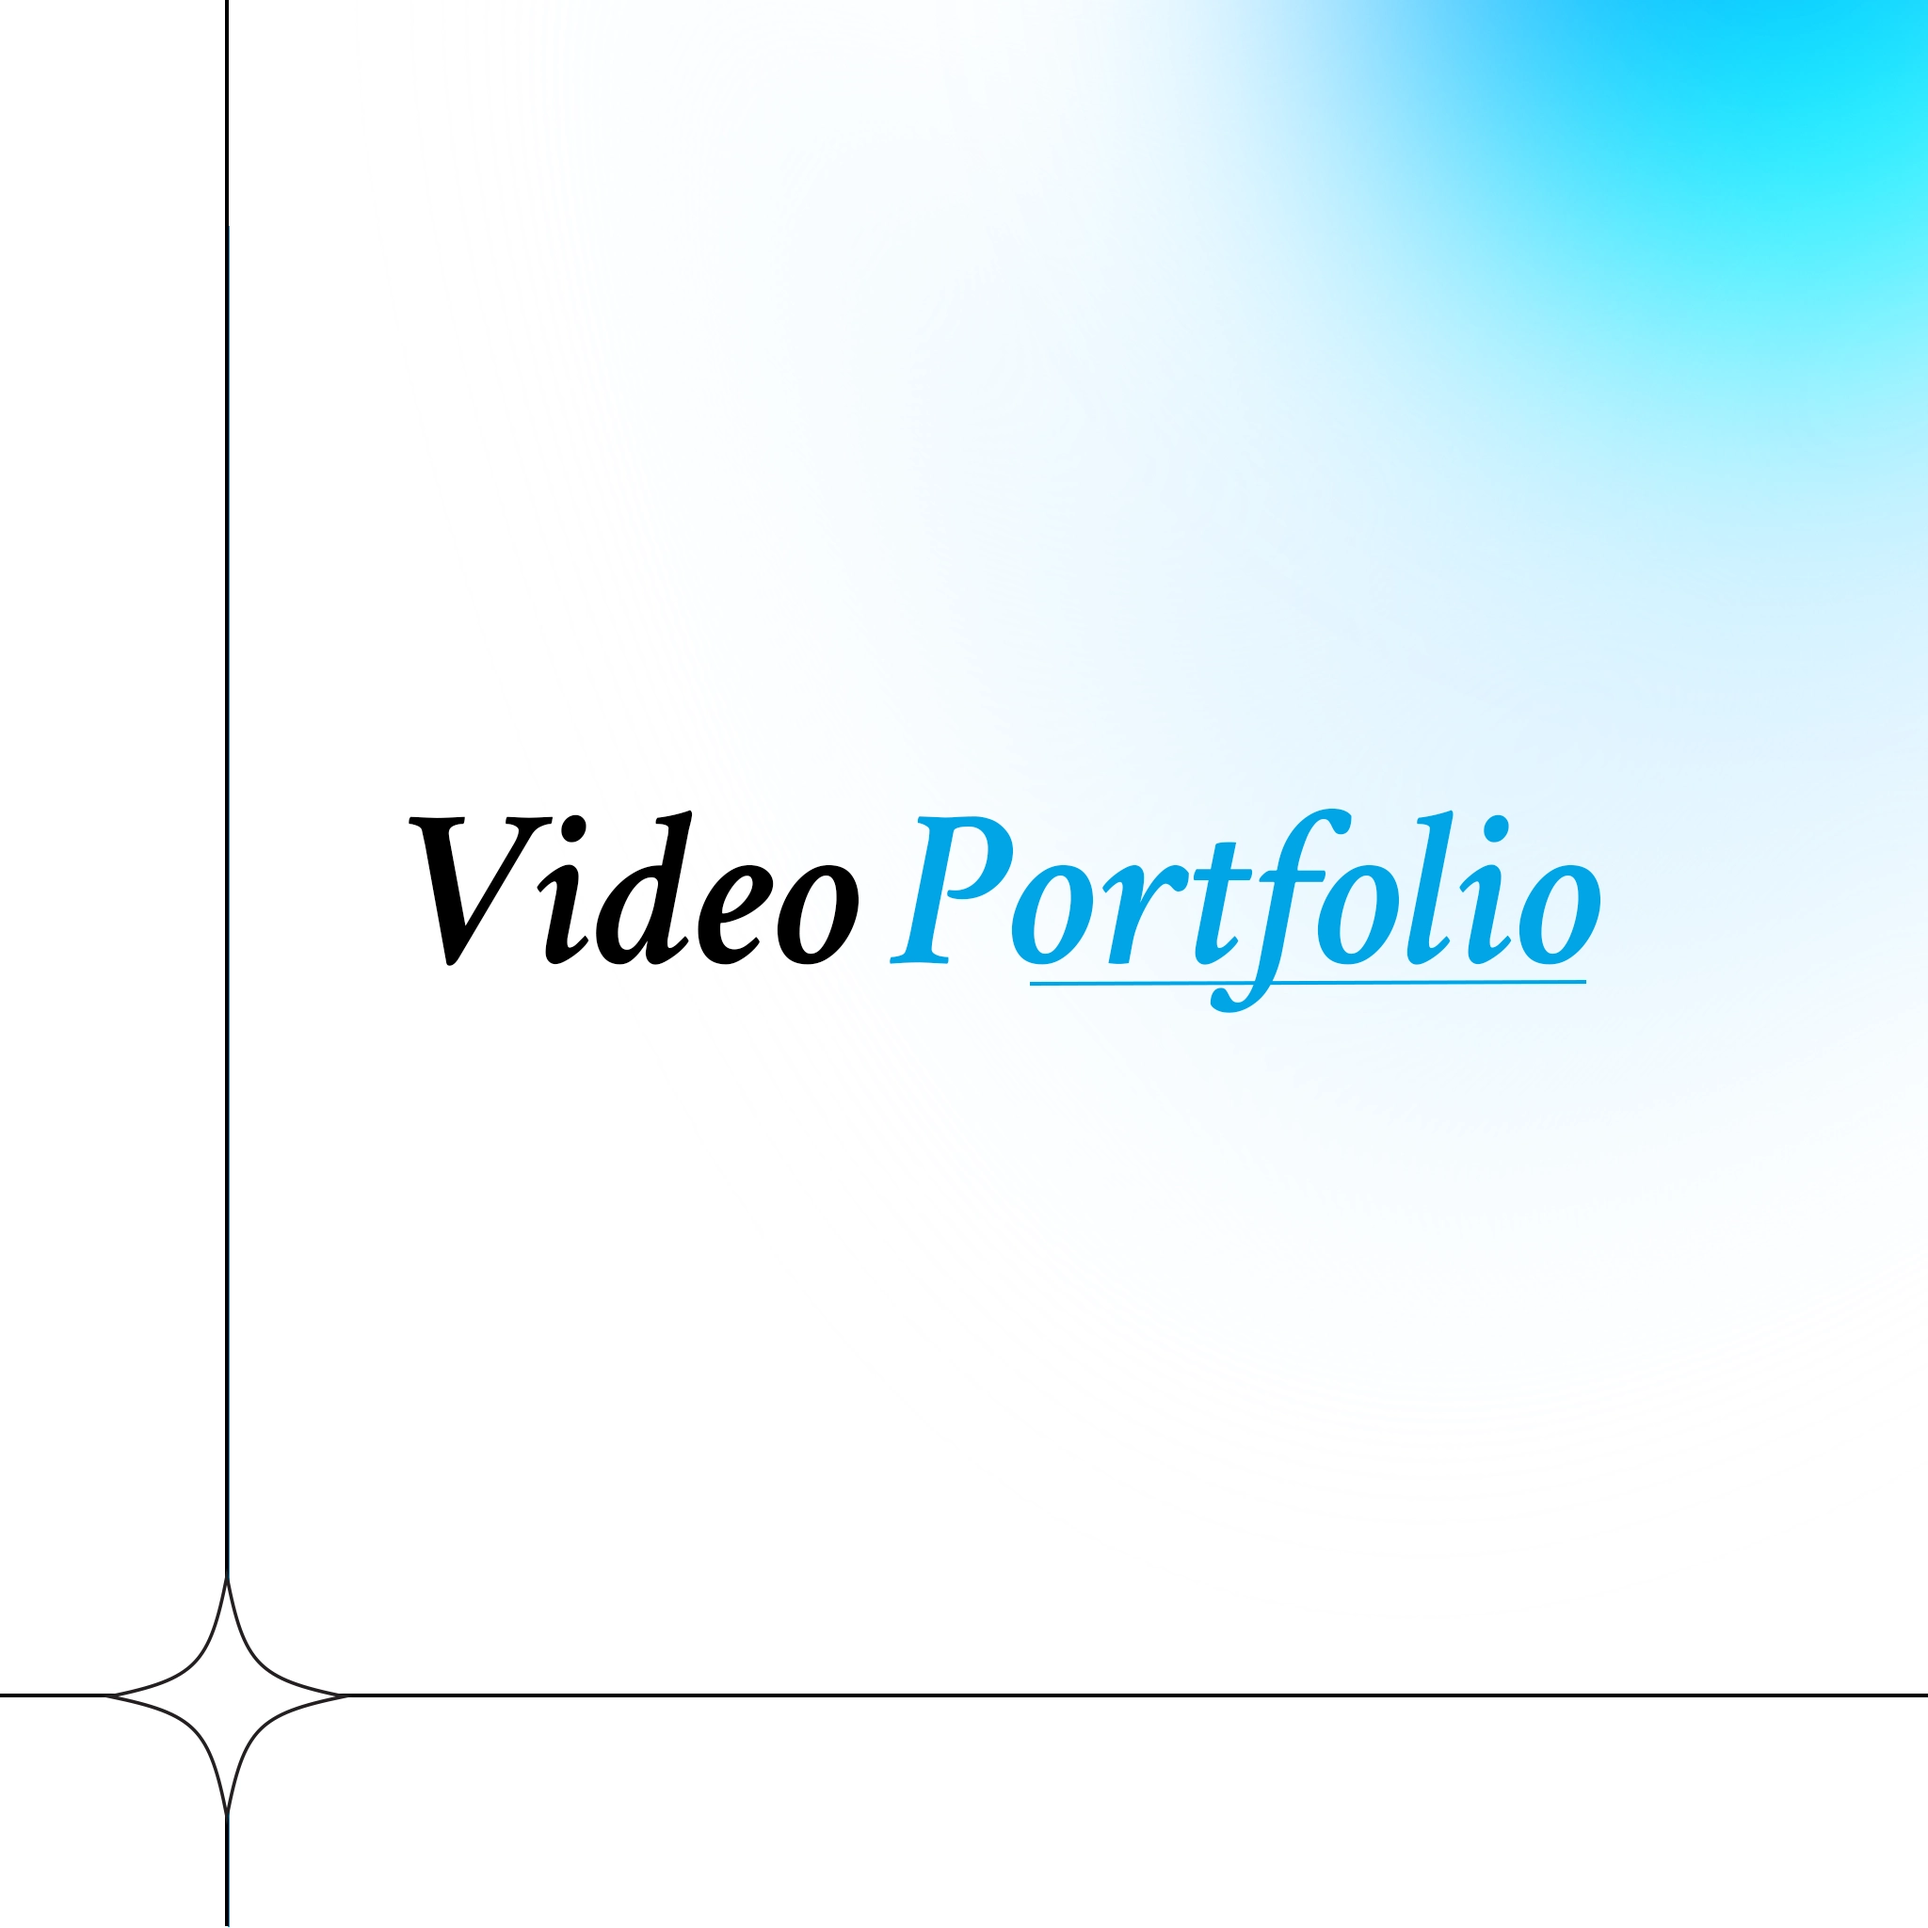
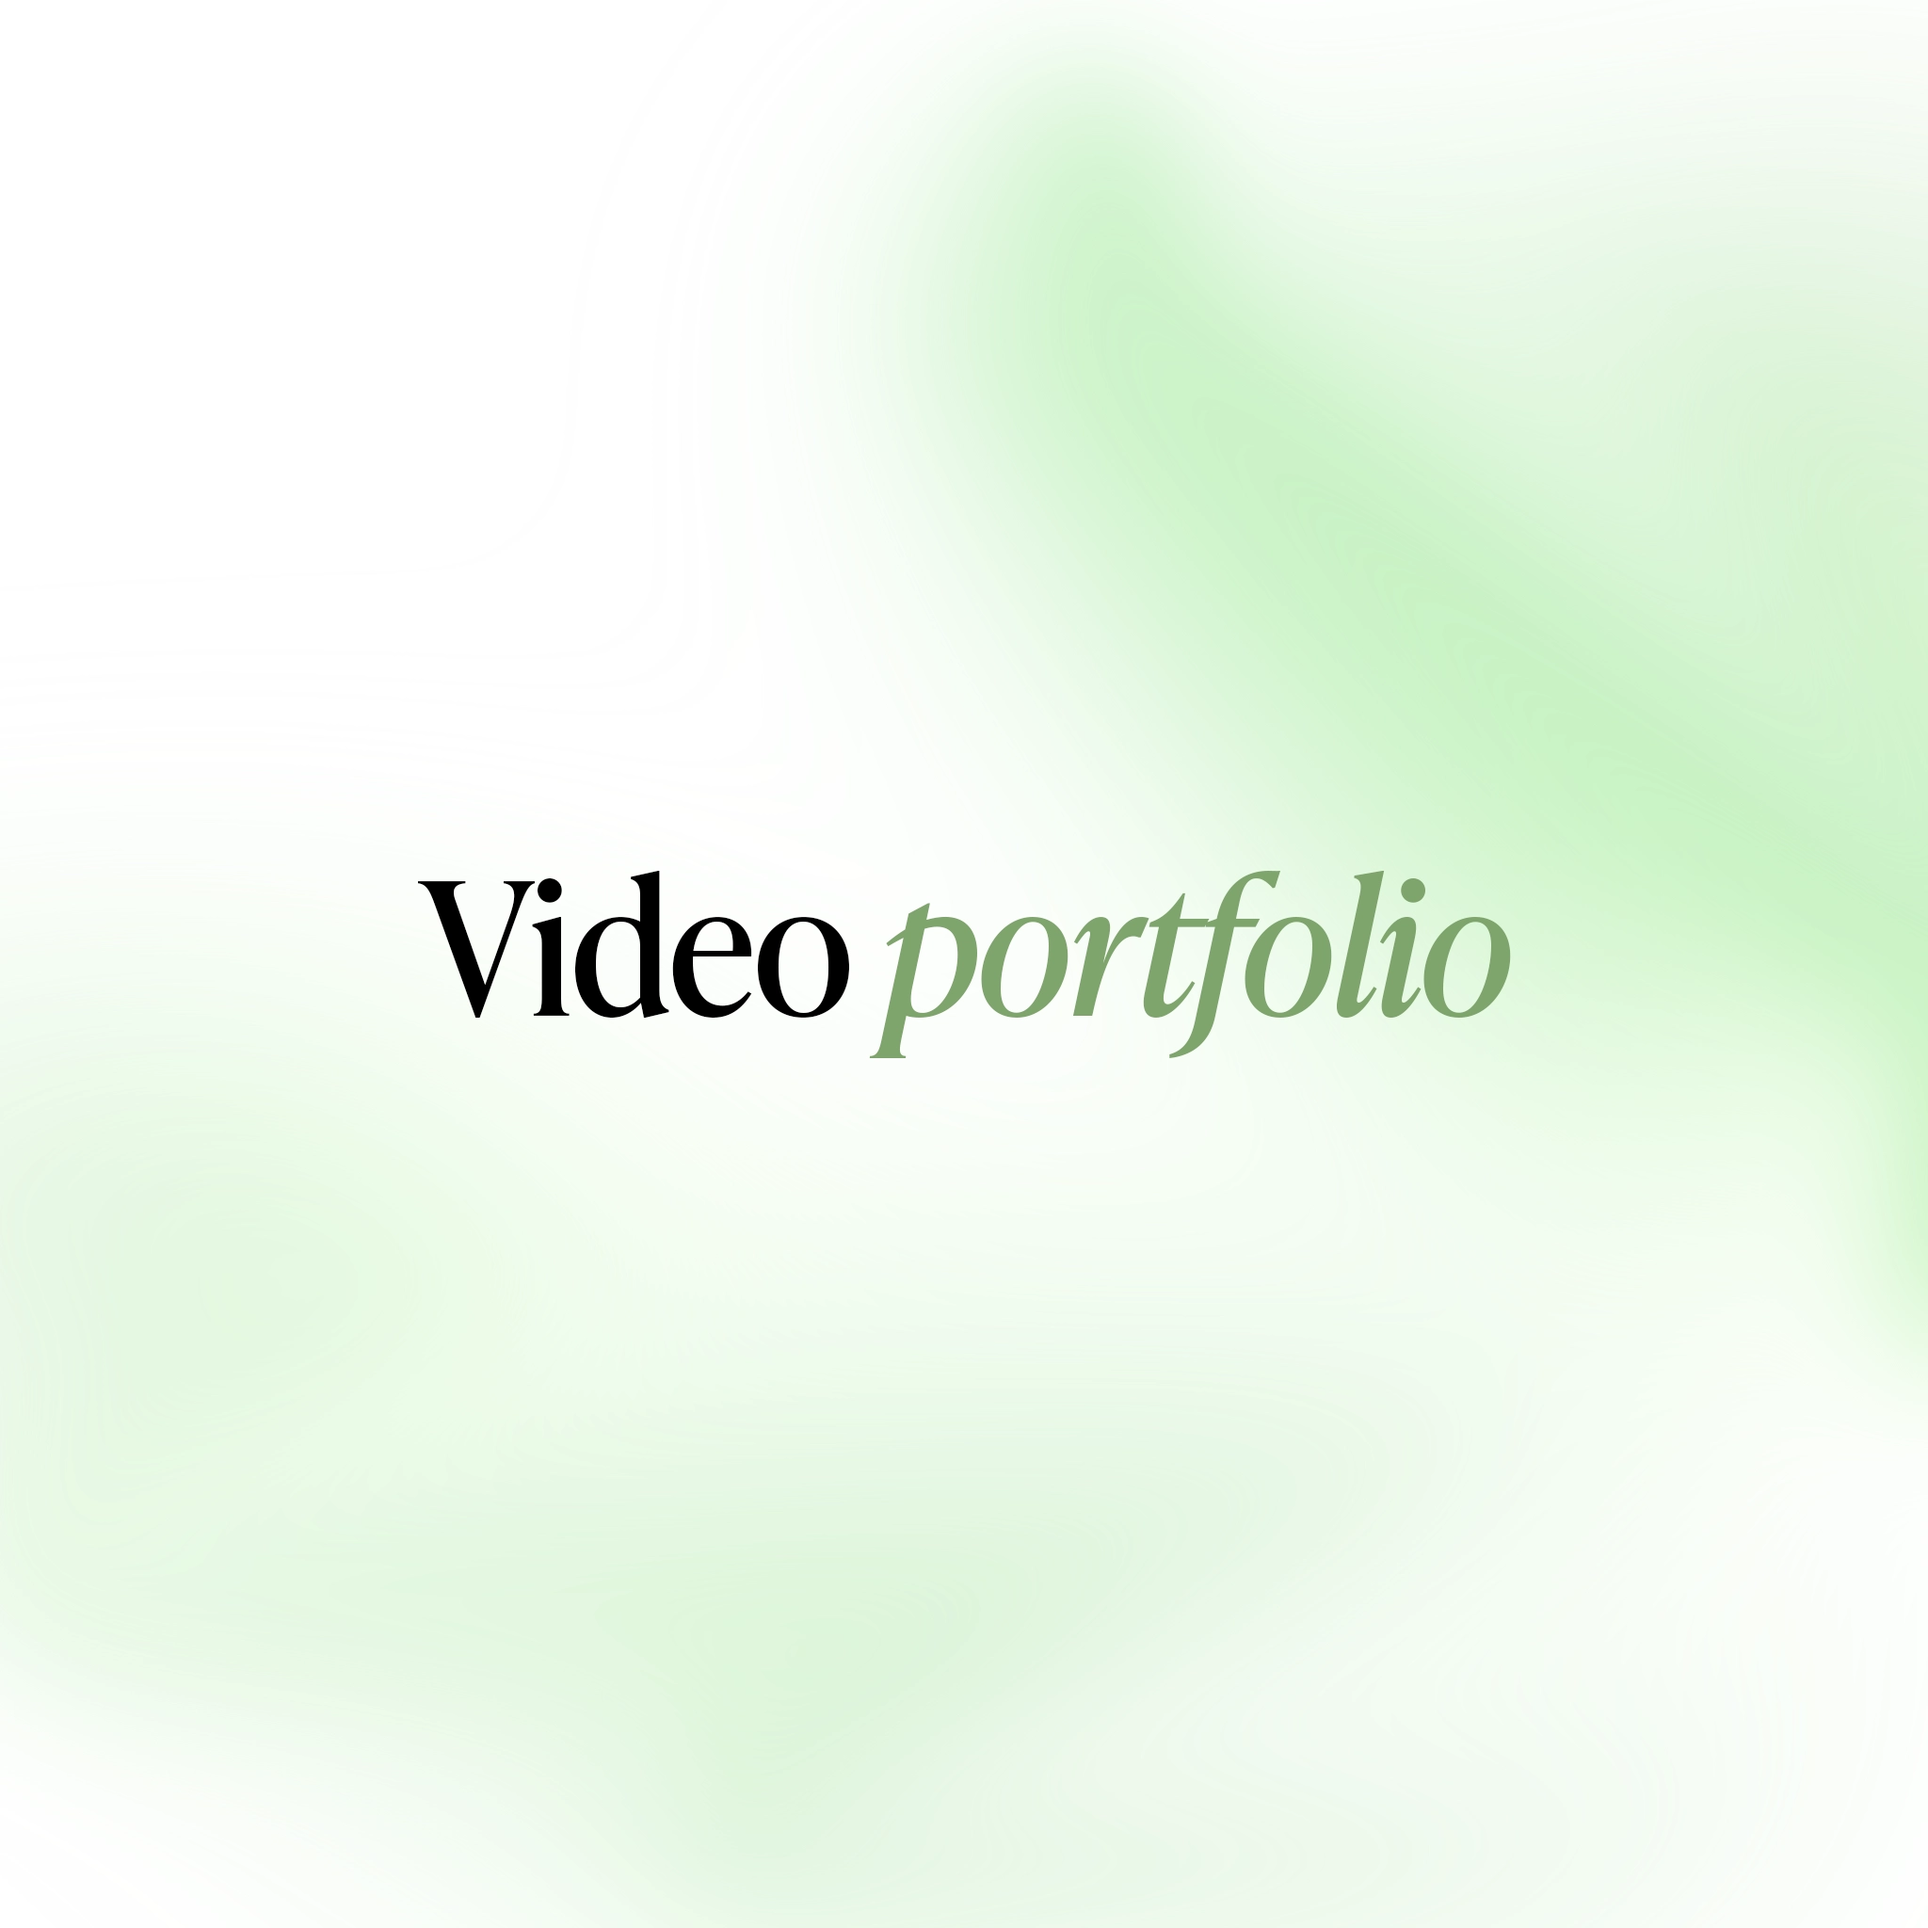
green website

diff --git a/src/components/HomeFirstLook.js b/src/components/HomeFirstLook.js
@@ -60,17 +60,17 @@ const HomeFirstLook = () => {
                 ))}
             </motion.h1>
             <section className=" lg:ml-16 size1400:ml-0 size1400:mr-40 flex flex-col lg:flex-row justify-center items-center">
-                <motion.img initial={{opacity: 0}} animate={{opacity: 1}} transition={{delay: 0.1}} className="size1200:relative size1200:bottom-28 size1400:bottom-[20rem] size1700:bottom-[18rem] w-[15rem] lg:w-[20.5rem] border-2 border-black rounded-tr-[3rem] rounded-bl-[3rem]" src="./images/me copy.webp" alt="me - nadia nielsen" />
+                <motion.img initial={{opacity: 0}} animate={{opacity: 1}} transition={{delay: 0.1}} className="size1200:relative size1200:bottom-28 size1400:bottom-[20rem] size1700:bottom-[18rem] w-[15rem] lg:w-[22.5rem] border-2 border-black rounded-full" src="./images/me front page.webp" alt="me - nadia nielsen" />
                 <motion.div initial={{opacity: 0}} animate={{opacity: 1}} transition={{ delay: 0.25}} className="size1200:relative size1200:bottom-28 size1400:bottom-[16rem] size1700:bottom-[14rem] py-12 px-16 size-1200:px-[25rem] size1400:py-32 flex flex-col">
-                    <h2 className="text-3xl size1400:text-[2.5rem]">Hello and <span className="crimson-font text-[#00A5E7]">welcome</span></h2>
+                    <h2 className="text-3xl size1400:text-[2.5rem]">Hello and <span className="crimson-font text-[#7ea46c]">welcome</span></h2>
                     <p className="size1200:w-[26rem] size1200:text-xl">My name is Nadia Nielsen, I am {age} years old and I come from Zealand in Denmark. I am currently taking the media graphic designer education (mediegrafiker uddannelsen).</p>
                     <figure className="w-[27.5 rem] h-2 border-b-2 border-black py-2"></figure>
-                    <p className="text-lg pt-2.5">On my website you can browse through my artworks on the <Link to={"/gallery"} className="underline hover:text-[#00A5E7] hover:font-semibold hover:duration-500 hover:ease-in-out hover:transition-colors">gallery page.</Link></p>
-                    <Link to={"/"} className="w-[15rem] text-lg flex gap-x-1 items-center underline hover:no-underline hover:text-[#00A5E7] hover:duration-500 hover:transition-colors hover:ease-in-out hover:font-semibold">
+                    <p className="text-lg pt-2.5">On my website you can browse through my artworks on the <Link to={"/gallery"} className="underline hover:text-[#7ea46c] hover:font-semibold hover:duration-500 hover:ease-in-out hover:transition-colors">gallery page.</Link></p>
+                    <Link to={"/"} className="w-[15rem] text-lg flex gap-x-1 items-center underline hover:no-underline hover:text-[#7ea46c] hover:duration-500 hover:transition-colors hover:ease-in-out hover:font-semibold">
                         <p>For more knowledge about me</p>
                         <IoIosArrowRoundForward className="text-4xl mt-1" />
                     </Link>
-                    <motion.div initial={{ opacity: 0, y: [ -40, 40, 0] }} whileInView={{ opacity: 1, y: [-20, 20, 0] }} transition={{ delay: 2.2, duration: 0.40, repeatDelay: 2, repeat: Infinity }} className="w-12 h-12 size1400:w-16 size1400:h-16 m-auto mt-10 lg:mt-24 size1400:mt-12 bg-[#00A5E7] flex justify-center items-center rounded-full">
+                    <motion.div initial={{ opacity: 0, y: [ -40, 40, 0] }} whileInView={{ opacity: 1, y: [-20, 20, 0] }} transition={{ delay: 2.2, duration: 0.40, repeatDelay: 2, repeat: Infinity }} className="w-12 h-12 size1400:w-16 size1400:h-16 m-auto mt-10 lg:mt-24 size1400:mt-12 bg-[#7ea46c] flex justify-center items-center rounded-full">
                         <IoIosArrowDown className="text-3xl text-white mt-1" />
                     </motion.div>
                 </motion.div>

diff --git a/src/pages/Home.js b/src/pages/Home.js
@@ -18,16 +18,16 @@ const Home = () => {
     return (
         <motion.article initial={{opacity: 0}} animate={{opacity: 1}} transition={{duration: 0.60}} className="grid gap-y-20 size1400:gap-y-0 z-50">
             <div className="absolute -z-50 w-full h-full">
-                <img className="fixed w-full" src="./images/website banner copy 2.webp" alt="" />
+                <img className="fixed w-full opacity-35" src="./images/Artboard 3.png" alt="" />
             </div>
             <HomeFirstLook />
             <section className="flex justify-center items-center text-center h-[30vh]">
-                <motion.p initial={{opacity: 0, x: -200}} whileInView={{opacity: 1, x:0}} transition={{ease: "easeInOut", delay: 0.30}} className="text-3xl size1700:text-4xl w-[70vw]">I am currently looking for <span className="text-[#00A5E7] crimson-font">apprenticeship (læreplads)</span></motion.p>
+                <motion.p initial={{opacity: 0, x: -200}} whileInView={{opacity: 1, x:0}} transition={{ease: "easeInOut", delay: 0.30}} className="text-3xl size1700:text-4xl w-[70vw]">I am currently looking for <span className="text-[#7ea46c] crimson-font">apprenticeship (læreplads)</span></motion.p>
             </section>
             <section className="flex flex-col mt-20 size1300:mt-80">
                 <h2 className="font-semibold text-center text-3xl">Video portfolio</h2>
                 <figure className="w-[20rem] size400:w-[22rem] lg:w-[40rem] size1200:w-[60rem] h-2 border-b-2 border-black mt-2 mb-10 place-self-center"></figure>
-                <video src="Nadia Nielsen - Video portfolio.mp4" controls className="w-[80vw] md:w-[50vw] size1200:w-[40vw] shadow-md shadow-black/20 z-20 rounded-[2rem] bg-white place-self-center mb-32 object-cover" poster=""></video>
+                <video src="Nadia Nielsen - Video portfolio.mp4" controls className="w-[80vw] md:w-[50vw] size1200:w-[40vw] shadow-md shadow-black/20 z-20 rounded-[2rem] bg-white place-self-center mb-32 object-cover" poster="./images/video portfolio thumbnail.webp"></video>
             </section>
         </motion.article>
     );

diff --git a/src/pages/Contact.js b/src/pages/Contact.js
@@ -8,8 +8,8 @@ import { motion } from "framer-motion";
 const Contact = () => {
     return (
         <article className="h-[60vh] sm:h-[80vh] md:h-[60vh] lg:h-[90vh] flex flex-col justify-center items-center gap-y-10 w-full md:flex md:flex-row md:justify-normal md:items-center relative">
-            <img src="./images/contact banner - green.webp" alt="" className=" absolute object-fill w-full h-full -z-10 opacity-70" />
-            <h2 className="uppercase text-4xl sm:text-5xl md:text-6xl lg:text-8xl size1100:text-9xl  md:m-0 px-10 md:pl-14 lg:pl-40 lg:w-[50%] font-light">Let's get in <motion.span className="relative text-[#56d64f]" initial={{ opacity: 0}} animate={{opacity: 1}} transition={{delay: 0.30, duration: 0.60}} >touch</motion.span></h2>
+            <img src="./images/website contact - green.webp" alt="" className=" absolute object-fill w-full h-full -z-10 opacity-35" />
+            <h2 className="uppercase text-4xl sm:text-5xl md:text-6xl lg:text-8xl size1100:text-9xl  md:m-0 px-10 md:pl-14 lg:pl-40 lg:w-[50%] font-light">Let's get in <motion.span className="relative text-[#7ea46c]" initial={{ opacity: 0}} animate={{opacity: 1}} transition={{delay: 0.30, duration: 0.60}} >touch</motion.span></h2>
             <article className="border-y-2 border-black sm:w-[35%] h-[20vh] md:h-[45vh] grid grid-cols-1 grid-rows-4  md:m-0">
                 <div className="flex justify-center items-center gap-x-3">
                     <BsInstagram className="md:text-2xl lg:text-4xl" />

diff --git a/src/pages/About.js b/src/pages/About.js
@@ -9,7 +9,7 @@ const About = () => {
     <article className="grid gap-y-20 my-14 size1200:grid-cols-3 justify-items-center m-auto lg:w-[80%] lg:gap-x-20 lg:my-32">
         <LinkCards heading={"Frontend Developer"} subscription={"Information about my coding journey."} img={"./images/code - about.webp"} url={"/frontenddeveloper"} alt={"code"}/>
         <LinkCards heading={"Design"} subscription={"Information about my graphic design skills."} img={"./images/posters-wallpapers/Futuristic poster - 26-9-2024.jpg"} alt={"Futuristic poster"} url={"/design"}/>
-        <LinkCards heading={"About Me"} subscription={"Information about me."} img={"./images/aboutme - thumbnail - green.webp"} alt={"blurred colors"} url={"/aboutme"}/>
+        <LinkCards heading={"About Me"} subscription={"Information about me."} img={"./images/aboutme - thumbnail.webp"} alt={"blurred colors"} url={"/aboutme"}/>
     </article>
     );
 }
